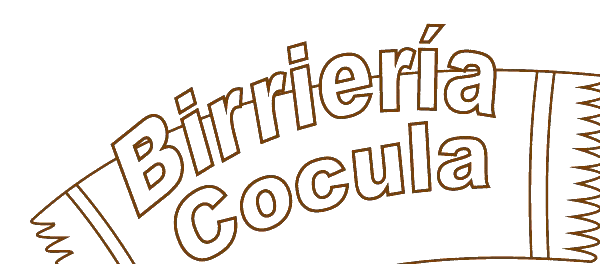
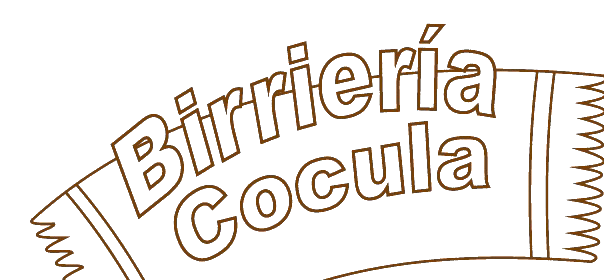
Foto quesadillas-nuevo en galería y mejorar zarape (sin MR, tamaño aumentado)

Changed region(s): [[0.03, 0.0606, 1.0, 1.0], [0.54, 0.9697, 0.6, 1.0]]

diff --git a/styles.css b/styles.css
@@ -767,13 +767,15 @@ button{font:inherit; cursor:pointer; border:0; background:transparent; color:inh
 /* ─── ZARAPE DECORATION ──────────────────────────────── */
 .zarape-decor{
   display:block;
-  width:clamp(180px, 22vw, 260px);
+  width:clamp(220px, 28vw, 320px);
   height:auto;
   margin:0 0 18px;
   transform:rotate(-3deg);
+  transform-origin:left center;
   filter:drop-shadow(0 4px 12px rgba(36,38,47,.10));
   pointer-events:none;
   user-select:none;
+  overflow:visible;
 }
 @media (max-width:600px){
   .zarape-decor{ margin:0 auto 18px; transform:rotate(-2deg) }

diff --git a/index.html b/index.html
@@ -94,7 +94,7 @@
       <img src="assets/images/menu/costilla-puerco.jpg" alt="" />
       <img src="assets/images/menu/panela-chivo.jpg" alt="" />
       <img src="assets/images/menu/panela-asada.jpg" alt="" />
-      <img src="assets/images/menu/queso-quesadilla-natural.jpg" alt="" />
+      <img src="assets/images/menu/quesadillas-nuevo.jpg" alt="" />
     </div>
   </div>
   <p class="galeria__quote">"Cada platillo lleva la tradición de nuestras manos y el cariño que Cocula enseña."</p>
